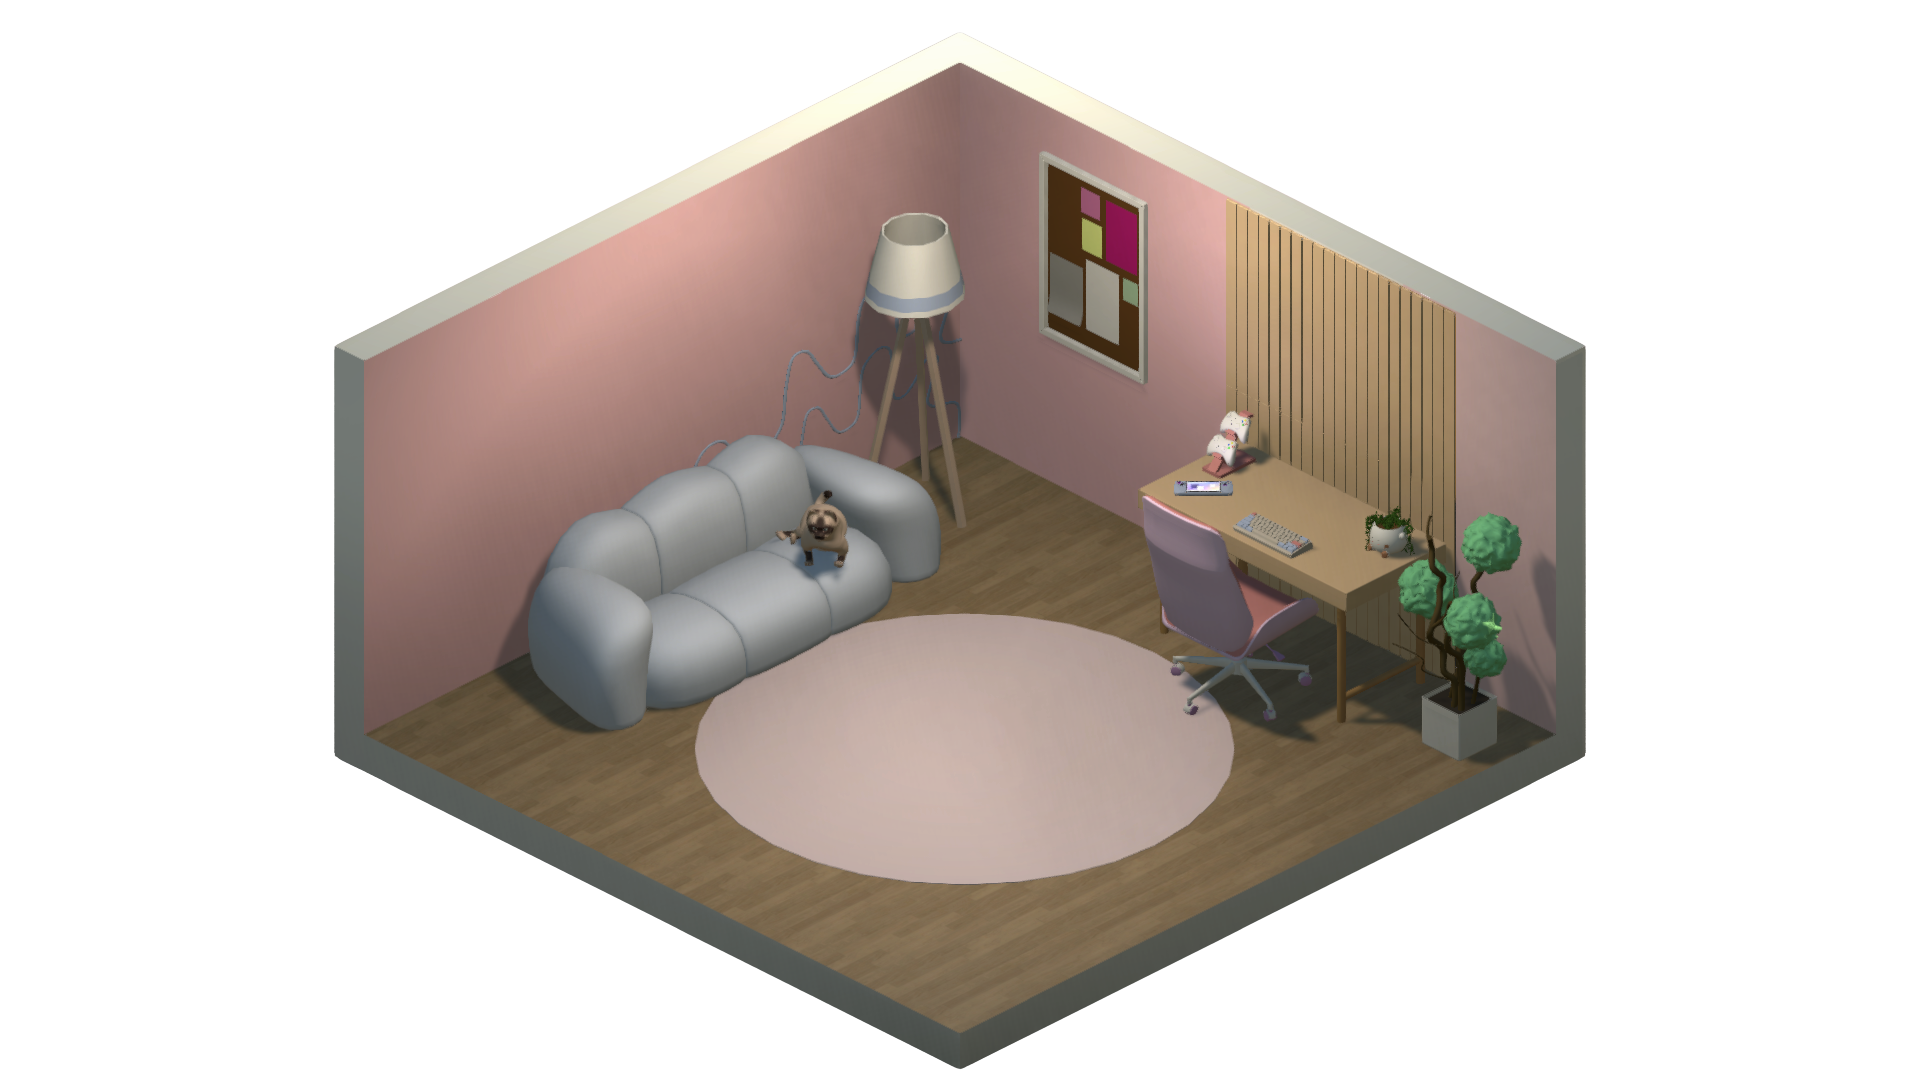
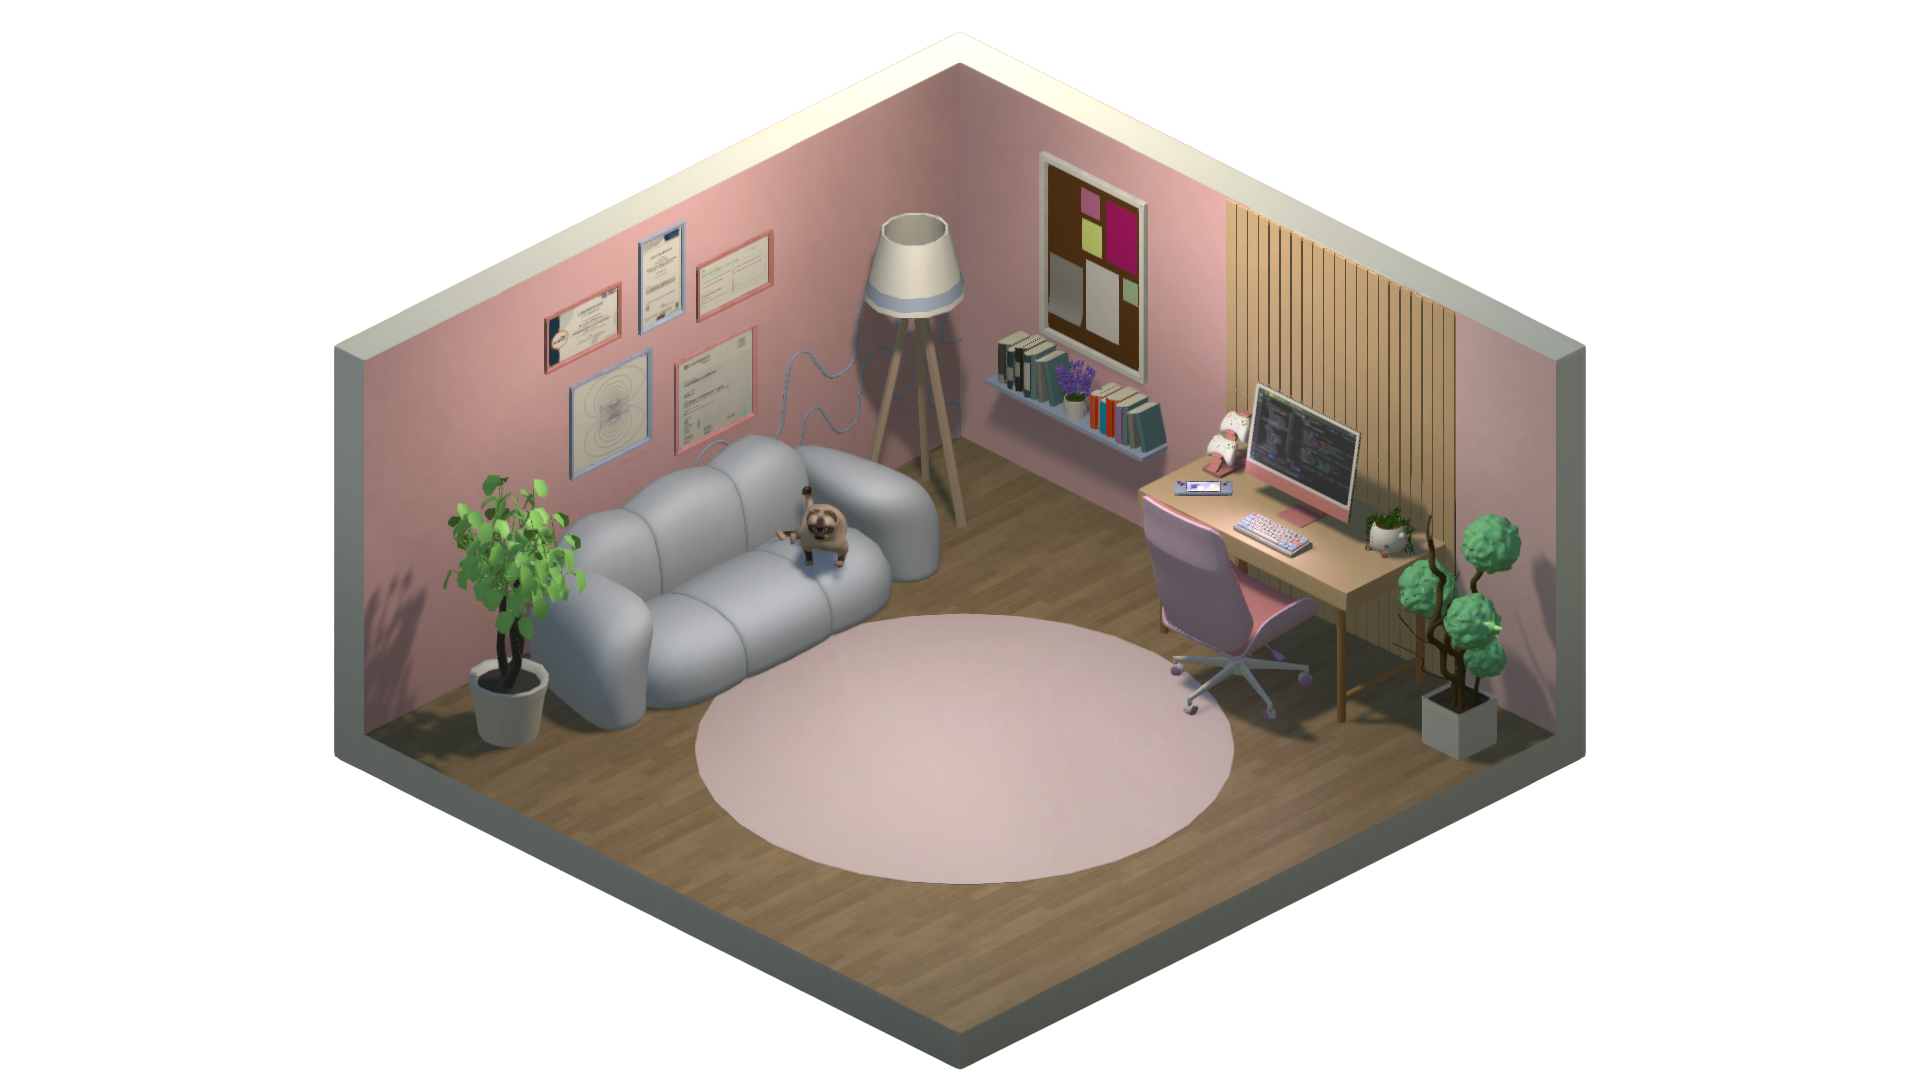
added counter and message

Changed region(s): [[0.1875, 0.2139, 0.4062, 0.7028], [0.5, 0.3056, 0.75, 0.5806]]

diff --git a/src/App.jsx b/src/App.jsx
@@ -1,11 +1,53 @@
-import { useState } from 'react';
+import { useState, useEffect } from 'react';
 import { motion, useScroll, useMotionValueEvent, AnimatePresence } from 'framer-motion';
-import { ChevronDown, Code, Briefcase, Mail, FileText, X, GraduationCap, Monitor, Cpu, Eye, ExternalLink, Heart } from 'lucide-react';
+import { ChevronDown, Code, Briefcase, Mail, FileText, X, GraduationCap, Monitor, Cpu, Eye, ExternalLink, Heart, Download } from 'lucide-react';
+import confetti from 'canvas-confetti';
 
 function App() {
   const { scrollY } = useScroll();
   const [hidden, setHidden] = useState(false);
   const [activeModal, setActiveModal] = useState(null);
+  const [foundObjects, setFoundObjects] = useState([]);
+  const [hasWon, setHasWon] = useState(false);
+
+  const handleObjectClick = (objectId) => {
+    setActiveModal(objectId);
+    if (objectId !== 'me' && !foundObjects.includes(objectId)) {
+      setFoundObjects(prev => [...prev, objectId]);
+    }
+  };
+
+  useEffect(() => {
+    if (foundObjects.length === 5 && !activeModal && !hasWon) {
+      setHasWon(true);
+      setActiveModal('victory');
+
+      const duration = 3 * 1000;
+      const end = Date.now() + duration;
+
+      const frame = () => {
+        confetti({
+          particleCount: 5,
+          angle: 60,
+          spread: 55,
+          origin: { x: 0 },
+          colors: ['#ec4899', '#3b82f6', '#fbcfe8', '#bfdbfe'] // Pink and Blue
+        });
+        confetti({
+          particleCount: 5,
+          angle: 120,
+          spread: 55,
+          origin: { x: 1 },
+          colors: ['#ec4899', '#3b82f6', '#fbcfe8', '#bfdbfe']
+        });
+
+        if (Date.now() < end) {
+          requestAnimationFrame(frame);
+        }
+      };
+      frame();
+    }
+  }, [foundObjects.length, activeModal, hasWon]);
 
   useMotionValueEvent(scrollY, "change", (latest) => {
     const previous = scrollY.getPrevious() || 0;
@@ -108,7 +150,7 @@ function App() {
           className="w-full max-w-7xl text-center mb-8"
         >
           <h2 className="font-display text-3xl md:text-4xl font-bold text-gray-800">
-            Find the <span className="text-pink-500">4 objects</span> to discover <span className="text-pink-500">my story</span>.
+            Find the <span className="text-pink-500">5 objects</span> to discover <span className="text-pink-500">my story</span>.
           </h2>
         </motion.div>
 
@@ -121,6 +163,27 @@ function App() {
           className="relative w-full max-w-7xl aspect-video bg-transparent"
         >
 
+          {/* Game Counter */}
+          <AnimatePresence>
+            {foundObjects.length > 0 && (
+              <motion.div
+                initial={{ opacity: 0, y: 20 }}
+                animate={{ opacity: 1, y: 0 }}
+                exit={{ opacity: 0, y: 20 }}
+                className="absolute bottom-4 left-4 sm:bottom-6 sm:left-6 z-30"
+              >
+                <div className="bg-white/50 backdrop-blur-sm border border-pink-200 px-3 py-1.5 sm:px-4 sm:py-2 rounded-full shadow-md flex items-center gap-2 hover:bg-white/80 transition-colors cursor-default">
+                  <span className="text-[10px] sm:text-xs uppercase tracking-widest font-mono text-pink-500 font-bold">
+                    Objects Found:
+                  </span>
+                  <span className="text-xs sm:text-sm font-bold text-gray-900 bg-white px-2 py-0.5 rounded-full shadow-sm border border-pink-200">
+                    {foundObjects.length} / 5
+                  </span>
+                </div>
+              </motion.div>
+            )}
+          </AnimatePresence>
+
           {/* Background Room */}
           <img
             src="/pictures/room.png"
@@ -132,7 +195,7 @@ function App() {
           <div
             className="interactive-object"
             style={{ left: '23.02%', top: '43.80%', width: '7.60%', height: '25.56%' }}
-            onClick={() => setActiveModal('plant')}
+            onClick={() => handleObjectClick('plant')}
           >
             <img src="/pictures/tree.png?v=2" alt="Plant" className="w-full h-full object-contain" />
           </div>
@@ -141,7 +204,7 @@ function App() {
           <div
             className="interactive-object"
             style={{ left: '51.20%', top: '30.56%', width: '9.58%', height: '12.13%' }}
-            onClick={() => setActiveModal('education')}
+            onClick={() => handleObjectClick('education')}
           >
             <img src="/pictures/shelf.png?v=2" alt="Bookshelf" className="w-full h-full object-contain" />
           </div>
@@ -150,7 +213,7 @@ function App() {
           <div
             className="interactive-object"
             style={{ left: '28.23%', top: '20.28%', width: '12.03%', height: '24.17%' }}
-            onClick={() => setActiveModal('posters')}
+            onClick={() => handleObjectClick('posters')}
           >
             <img src="/pictures/posters.png?v=2" alt="Certificates" className="w-full h-full object-contain" />
           </div>
@@ -159,7 +222,7 @@ function App() {
           <div
             className="interactive-object"
             style={{ left: '54.06%', top: '13.89%', width: '5.78%', height: '21.85%' }}
-            onClick={() => setActiveModal('board')}
+            onClick={() => handleObjectClick('board')}
           >
             <img src="/pictures/board.png" alt="Board" className="w-full h-full object-contain" />
           </div>
@@ -168,7 +231,7 @@ function App() {
           <div
             className="interactive-object"
             style={{ left: '64.69%', top: '35.28%', width: '6.20%', height: '13.70%' }}
-            onClick={() => setActiveModal('projects')}
+            onClick={() => handleObjectClick('projects')}
           >
             {/* Un-comment and update path when you have the PC image */}
             <img src="/pictures/pc.png?v=2" alt="PC" className="w-full h-full object-contain" />
@@ -178,7 +241,7 @@ function App() {
           <div
             className="interactive-object z-20"
             style={{ left: '47.66%', top: '41.02%', width: '8.91%', height: '37.59%' }}
-            onClick={() => setActiveModal('me')}
+            onClick={() => handleObjectClick('me')}
           >
             <img
               src="/pictures/me.png?v=2"
@@ -277,7 +340,7 @@ function App() {
                   <Briefcase className="w-6 h-6" />
                   <h3 className="font-display text-xl font-bold tracking-wide uppercase">Professional Experience</h3>
                 </div>
-                <button 
+                <button
                   onClick={() => setActiveModal(null)}
                   className="p-1.5 text-gray-400 hover:text-pink-600 hover:bg-pink-200 rounded-full transition-colors"
                 >
@@ -287,7 +350,7 @@ function App() {
 
               {/* Modal Body */}
               <div className="p-6 md:p-8 text-left">
-                
+
                 <div className="flex flex-col sm:flex-row sm:justify-between sm:items-start border-b border-pink-100 pb-4 mb-4">
                   <div>
                     <h4 className="text-2xl font-bold text-gray-900 mb-1">
@@ -340,9 +403,9 @@ function App() {
               <div className="bg-pink-100/50 px-6 py-4 flex justify-between items-center border-b border-pink-100">
                 <div className="flex items-center gap-3 text-pink-600">
                   <FileText className="w-6 h-6" />
-                  <h3 className="font-display text-xl font-bold tracking-wide uppercase">Certifications & Learning</h3>
+                  <h3 className="font-display text-xl font-bold tracking-wide uppercase">Certifications</h3>
                 </div>
-                <button 
+                <button
                   onClick={() => setActiveModal(null)}
                   className="p-1.5 text-gray-400 hover:text-pink-600 hover:bg-pink-200 rounded-full transition-colors"
                 >
@@ -352,7 +415,7 @@ function App() {
 
               {/* Modal Body */}
               <div className="p-6 md:p-8 text-left max-h-[75vh] overflow-y-auto custom-scrollbar">
-                
+
                 {/* Cert 1 */}
                 <div className="border-b border-pink-100 pb-5 mb-5">
                   <div className="flex flex-col sm:flex-row sm:justify-between sm:items-start mb-2">
@@ -360,11 +423,11 @@ function App() {
                       <h4 className="text-xl font-bold text-gray-900">
                         Web Programming 101 Certificate
                       </h4>
-                      <span className="text-pink-500 font-bold">Issuer: Cisco</span>
+                      <span className="text-pink-500 font-bold">Cisco</span>
                     </div>
                     <div className="mt-1 sm:mt-0">
                       <span className="text-gray-600 bg-white/50 px-3 py-1 rounded-full text-xs border border-pink-100 shadow-sm font-mono tracking-tight">
-                        Issued: Dec 2025
+                        Dec 2025
                       </span>
                     </div>
                   </div>
@@ -393,11 +456,11 @@ function App() {
                       <h4 className="text-xl font-bold text-gray-900">
                         Cambridge English Level C2
                       </h4>
-                      <span className="text-pink-500 font-bold">Issuer: Cambridge University Press & Assessment</span>
+                      <span className="text-pink-500 font-bold">Cambridge University Press & Assessment</span>
                     </div>
                     <div className="mt-1 sm:mt-0">
                       <span className="text-gray-600 bg-white/50 px-3 py-1 rounded-full text-xs border border-pink-100 shadow-sm font-mono tracking-tight">
-                        Issued: Jun 2023
+                        Jun 2023
                       </span>
                     </div>
                   </div>
@@ -411,24 +474,45 @@ function App() {
                 {/* Upskilling */}
                 <div className="bg-pink-50/50 p-4 rounded-xl border border-pink-100">
                   <div className="flex items-center gap-2 mb-3">
-                    <span className="bg-pink-500 text-white text-[10px] uppercase font-bold tracking-wider px-2 py-0.5 rounded-full">In Progress / Upskilling</span>
+                    <span className="bg-pink-500 text-white text-[10px] uppercase font-bold tracking-wider px-2 py-0.5 rounded-full">Upskilling</span>
                   </div>
                   <div className="flex flex-col sm:flex-row sm:justify-between sm:items-start mb-2">
                     <div>
                       <h4 className="text-lg font-bold text-gray-900">
                         Python Certification
                       </h4>
-                      <span className="text-pink-500 font-bold text-sm">Issuer: freeCodeCamp</span>
+                      <span className="text-pink-500 font-bold text-sm">freeCodeCamp</span>
                     </div>
                     <div className="mt-1 sm:mt-0">
                       <span className="text-pink-600 bg-pink-100 px-3 py-1 rounded-full text-xs font-mono tracking-tight font-bold">
-                        Status: Currently Working On
+                        Currently Working On
                       </span>
                     </div>
                   </div>
                   <div className="mt-3">
                     <p className="text-gray-700 text-sm leading-relaxed">
                       <span className="font-bold text-gray-900 mr-1">Goal:</span> Expanding backend, data structures, and automation skills to complement my Python/Django experience.
+                    </p>
+                  </div>
+
+                  <div className="w-full h-px bg-pink-200/50 my-5"></div>
+
+                  <div className="flex flex-col sm:flex-row sm:justify-between sm:items-start mb-2">
+                    <div>
+                      <h4 className="text-lg font-bold text-gray-900">
+                        Learn React
+                      </h4>
+                      <span className="text-pink-500 font-bold text-sm">Codecademy</span>
+                    </div>
+                    <div className="mt-1 sm:mt-0">
+                      <span className="text-pink-600 bg-pink-100 px-3 py-1 rounded-full text-xs font-mono tracking-tight font-bold">
+                        Currently Working On
+                      </span>
+                    </div>
+                  </div>
+                  <div className="mt-3">
+                    <p className="text-gray-700 text-sm leading-relaxed">
+                      <span className="font-bold text-gray-900 mr-1">Goal:</span> Mastering component-based architecture, state management, and modern front-end workflows to build interactive web applications.
                     </p>
                   </div>
                 </div>
@@ -460,7 +544,7 @@ function App() {
                   <Heart className="w-6 h-6" />
                   <h3 className="font-display text-xl font-bold tracking-wide uppercase">Community & Leadership</h3>
                 </div>
-                <button 
+                <button
                   onClick={() => setActiveModal(null)}
                   className="p-1.5 text-gray-400 hover:text-pink-600 hover:bg-pink-200 rounded-full transition-colors"
                 >
@@ -470,7 +554,7 @@ function App() {
 
               {/* Modal Body */}
               <div className="p-6 md:p-8 text-left max-h-[75vh] overflow-y-auto custom-scrollbar">
-                
+
                 {/* Role 1 */}
                 <div className="border-b border-pink-100 pb-5 mb-5">
                   <div className="flex flex-col sm:flex-row sm:justify-between sm:items-start mb-2">
@@ -802,7 +886,7 @@ function App() {
                 <div className="flex items-center gap-3 text-pink-600">
                   <span className="font-display text-xl font-bold tracking-wide uppercase">Contact & Socials</span>
                 </div>
-                <button 
+                <button
                   onClick={() => setActiveModal(null)}
                   className="p-1.5 text-gray-400 hover:text-pink-600 hover:bg-pink-200 rounded-full transition-colors"
                 >
@@ -811,10 +895,10 @@ function App() {
               </div>
 
               <div className="p-6 md:p-8 flex flex-col gap-4">
-                <a 
-                  href="https://github.com/munteanualexandra683-gif" 
-                  target="_blank" 
-                  rel="noreferrer" 
+                <a
+                  href="https://github.com/munteanualexandra683-gif"
+                  target="_blank"
+                  rel="noreferrer"
                   className="flex items-center gap-4 p-4 rounded-xl border border-pink-100 bg-white shadow-sm hover:shadow-md hover:-translate-y-0.5 transition-all group"
                 >
                   <div className="bg-pink-50 text-pink-500 p-3 rounded-lg group-hover:bg-pink-500 group-hover:text-white transition-colors">
@@ -826,10 +910,10 @@ function App() {
                   </div>
                 </a>
 
-                <a 
-                  href="https://www.linkedin.com/in/alexandra-munteanu-5aa485291/" 
-                  target="_blank" 
-                  rel="noreferrer" 
+                <a
+                  href="https://www.linkedin.com/in/alexandra-munteanu-5aa485291/"
+                  target="_blank"
+                  rel="noreferrer"
                   className="flex items-center gap-4 p-4 rounded-xl border border-pink-100 bg-white shadow-sm hover:shadow-md hover:-translate-y-0.5 transition-all group"
                 >
                   <div className="bg-pink-50 text-pink-500 p-3 rounded-lg group-hover:bg-pink-500 group-hover:text-white transition-colors">
@@ -841,8 +925,8 @@ function App() {
                   </div>
                 </a>
 
-                <a 
-                  href="mailto:munteanualexandra683@gmail.com" 
+                <a
+                  href="mailto:munteanualexandra683@gmail.com"
                   className="flex items-center gap-4 p-4 rounded-xl border border-pink-100 bg-white shadow-sm hover:shadow-md hover:-translate-y-0.5 transition-all group"
                 >
                   <div className="bg-pink-50 text-pink-500 p-3 rounded-lg group-hover:bg-pink-500 group-hover:text-white transition-colors">
@@ -853,6 +937,57 @@ function App() {
                     <span className="text-sm text-gray-500 font-mono tracking-tight group-hover:text-pink-600 transition-colors truncate block">munteanualexandra683@gmail.com</span>
                   </div>
                 </a>
+              </div>
+            </motion.div>
+          </motion.div>
+        )}
+
+        {activeModal === 'victory' && (
+          <motion.div
+            initial={{ opacity: 0 }}
+            animate={{ opacity: 1 }}
+            exit={{ opacity: 0 }}
+            className="fixed inset-0 z-[100] flex items-center justify-center p-4 bg-gray-900/40 backdrop-blur-sm"
+            onClick={() => setActiveModal(null)}
+          >
+            <motion.div
+              initial={{ opacity: 0, scale: 0.8, y: 30 }}
+              animate={{ opacity: 1, scale: 1, y: 0 }}
+              exit={{ opacity: 0, scale: 0.8, y: 30 }}
+              transition={{ type: "spring", damping: 25, stiffness: 300 }}
+              className="bg-[#fff0f3] w-full max-w-lg rounded-2xl shadow-2xl overflow-hidden border border-pink-200 cursor-default text-center"
+              onClick={(e) => e.stopPropagation()}
+            >
+              <div className="bg-pink-100/50 px-6 py-6 border-b border-pink-100 relative">
+                <button
+                  onClick={() => setActiveModal(null)}
+                  className="absolute top-4 right-4 p-1.5 text-gray-400 hover:text-pink-600 hover:bg-pink-200 rounded-full transition-colors"
+                >
+                  <X className="w-5 h-5" />
+                </button>
+                <div className="mx-auto bg-pink-100 w-16 h-16 rounded-full flex items-center justify-center mb-3">
+                  <span className="text-3xl">🏆</span>
+                </div>
+                <h3 className="font-display text-2xl font-bold tracking-wide uppercase text-gray-900">100% Unlocked</h3>
+                <p className="text-pink-500 font-bold mt-1">You found all the items!</p>
+              </div>
+
+              <div className="p-6 md:p-8 flex flex-col gap-4">
+                <p className="text-gray-700 leading-relaxed">
+                  Thank you for taking the time to explore my portfolio! You've successfully found all the interactive items. If you like what you saw and want to connect, feel free to reach out. I'd love to hear from you!
+                </p>
+
+                <div className="flex flex-col sm:flex-row gap-3 mt-4">
+                  <a
+                    href="https://www.linkedin.com/in/alexandra-munteanu-5aa485291/"
+                    target="_blank"
+                    rel="noreferrer"
+                    className="flex-1 flex items-center justify-center gap-2 bg-pink-500 hover:bg-pink-600 text-white font-bold py-3 px-4 rounded-xl transition-colors shadow-md hover:shadow-lg"
+                  >
+                    <Briefcase className="w-5 h-5" />
+                    Start a Chat
+                  </a>
+                </div>
               </div>
             </motion.div>
           </motion.div>
